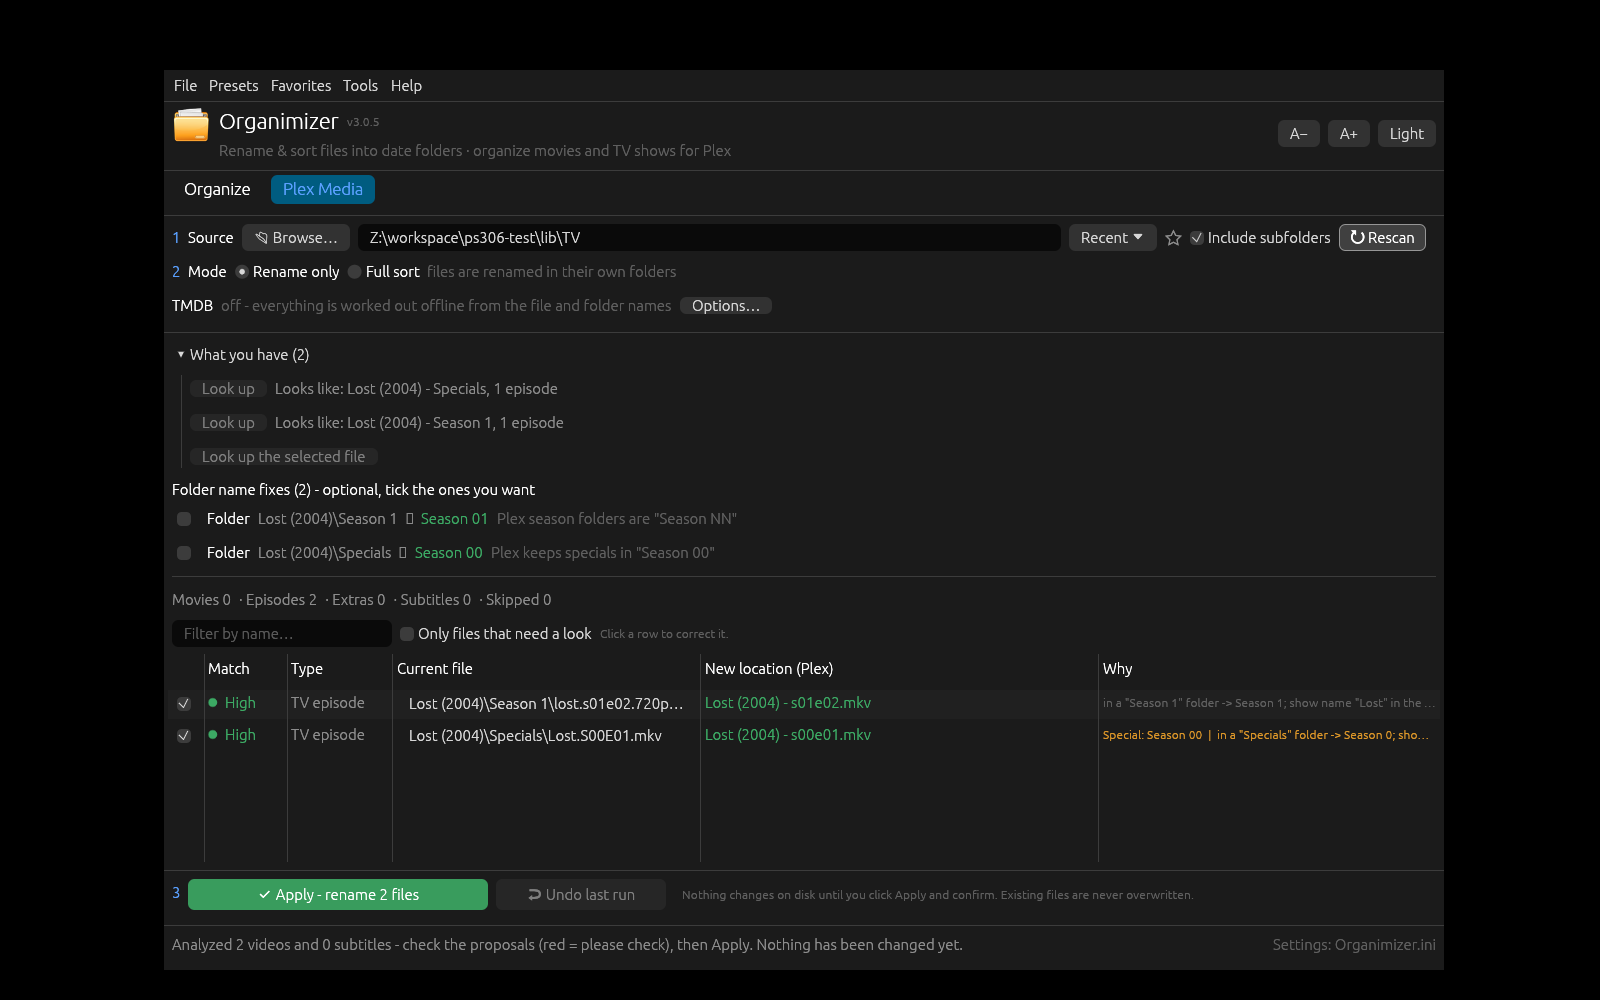
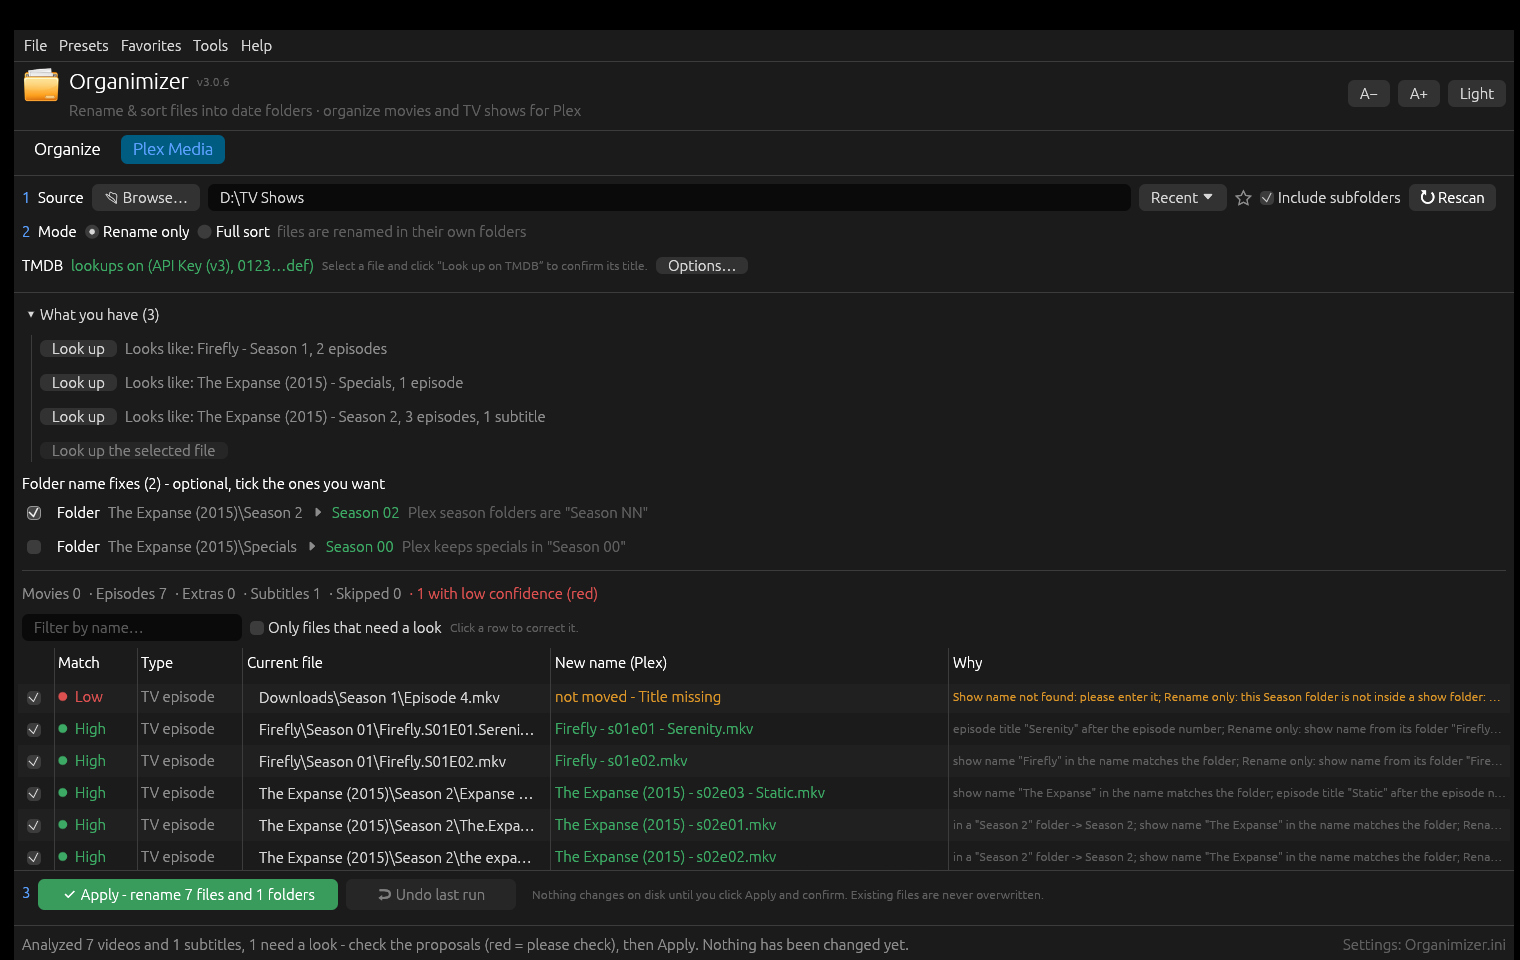
3.0.6: user guide with screenshots, release docs
docs/v3/USER-GUIDE.md walks through the Organize and Plex tabs (Rename
only with folder fixes, Full sort destinations, Recent folders, the
type-the-name prompt, Apply / Undo, F1 help) with fresh Wine screenshots
of sample folders; README.md links it and notes that 3.0 is on the
v3-organimizer branch, not released. HELP.md (plain text, opens in
Notepad) points to the online guide. README.txt carries the 3.0.6 exe
SHA-256; THIRD-PARTY-NOTICES regenerated; test summary updated.

diff --git a/docs/v3/USER-GUIDE.md b/docs/v3/USER-GUIDE.md
@@ -1,0 +1,124 @@
+# Organimizer 3.0.6 - user guide (with screenshots)
+
+> This guide is for the **3.0 branch** (`v3-organimizer`). 3.0 is still in
+> testing: it is not merged to `master` and has no GitHub release yet. The
+> latest release is PhotoSorter v2.0.5.
+
+The full text help ships with the app as `HELP.md` (Help > F1 opens it in
+Notepad, so it has no pictures). This page shows the same steps with
+screenshots. All screenshots were taken under Wine with sample folders
+(`D:\Photos`, `D:\TV Shows`, `D:\Movies`, `D:\Downloads`).
+
+Contents: [Organize tab](#organize-tab) |
+[Plex Media tab](#plex-media-tab) |
+[Rename only](#rename-only-the-default) |
+[Full sort](#full-sort) |
+[Look up and type the title](#look-up-and-type-the-title) |
+[Apply and Undo](#apply-and-undo) |
+[Help (F1)](#help-f1) |
+[Plex folder names](#plex-folder-names-in-short)
+
+---
+
+## Organize tab
+
+Renames photos and videos with your rules and sorts them into date
+folders such as `July 2024`. The Source box starts **empty** on every
+launch; **Recent** next to it lists the last 4 folders you used.
+
+![Recent folders on the Organize tab](screenshots/organize-recent-dropdown.png)
+
+Pick a folder and the live preview shows what would happen. Nothing
+changes until you click **Apply** and confirm.
+
+![Organize tab with a live preview](screenshots/organize-tab.png)
+
+## Plex Media tab
+
+1. **Source:** Browse, drop a folder, or pick one from **Recent**.
+2. **Mode:** **Rename only** (default) or **Full sort**.
+3. Click **Scan**, check the preview, then **Apply**.
+
+![Recent folders on the Plex tab](screenshots/plex-recent-dropdown.png)
+
+## Rename only (the default)
+
+Use this when your folders are already right, for example
+`The Expanse (2015)\Season 2\`. Each file is renamed **where it is**:
+nothing moves and no folder is created. The show name, year and season
+come from the folders the file is in.
+
+**Folder name fixes** (`Season 2` -> `Season 02`, `Specials` ->
+`Season 00`, adding the year) are separate rows above the file list and
+are **unticked** by default. Tick only the ones you want; the Apply button
+shows how many files and folders will change.
+
+![Rename only with folder name fixes](screenshots/plex-rename-only.png)
+
+Rows whose folders do not look right are not guessed. Here
+`Downloads\Season 1\Episode 4.mkv` is not inside a show folder, so it is
+red and "not moved" until you type the show name (click the row to open
+"Correct this file", or use Look up).
+
+![A doubtful row and the Correct this file panel](screenshots/plex-doubtful-row.png)
+
+A show folder without a year (`Firefly`) is **not** a problem: the Why
+column just notes that Plex folders are widely named
+`Show Title (yyyy)`, and when the year is known an unticked fix offers to
+add it.
+
+## Full sort
+
+Use this for a mixed folder of downloads or rips. Organimizer builds
+`Show (Year)\Season NN\` and `Movie (Year)\` (with extras folders such as
+`Trailers`) and moves the files into them.
+
+![Full sort preview](screenshots/plex-full-sort.png)
+
+**Destination:** *Inside source folder* builds the folders inside the
+chosen folder; *Library folders* moves movies to your Movies folder and
+episodes to your TV shows folder.
+
+![Full sort destination options](screenshots/plex-full-sort-library-folders.png)
+
+If you change the mode after a scan, click **Rescan**.
+
+## Look up and type the title
+
+With your own free TMDB key (Tools > Options > TMDB), **Look up** confirms
+titles. When Organimizer is not sure (Medium or Low), or TMDB finds
+nothing, it asks you to type the name and an optional 4-digit year first.
+
+![Type the name prompt](screenshots/plex-type-the-title.png)
+
+## Apply and Undo
+
+Apply asks first. Existing files and folders are never overwritten, and an
+undo log is written before anything changes.
+
+![Apply confirmation](screenshots/plex-apply-confirm.png)
+
+**Undo last run** puts every file (and, in Rename only, every renamed
+folder) back.
+
+![Undo confirmation](screenshots/plex-undo-confirm.png)
+
+## Help (F1)
+
+F1 opens `HELP.md` in Notepad. On the Plex tab, look for the "Plex tab"
+chapter in the Contents line.
+
+![HELP.md opened with F1](screenshots/help-f1-notepad.png)
+
+## Plex folder names in short
+
+- Movies: `Movie Title (yyyy)\Movie Title (yyyy).mkv`
+- TV: `Show Title (yyyy)\Season 01\Show Title (yyyy) - s01e02.mkv`
+  (specials in `Season 00`)
+- Show folders are widely named **`Show Title (yyyy)`**, movie folders
+  **`Movie Title (yyyy)`**.
+- Extras folders: `Behind The Scenes`, `Deleted Scenes`, `Featurettes`,
+  `Interviews`, `Scenes`, `Shorts`, `Trailers`, `Other`.
+
+The complete rules, with links to Plex's own support articles, are in the
+"Plex tab" chapter of [HELP.md](../../dist/v3.0.6/HELP.md).

diff --git a/docs/v3/TEST-SUMMARY.md b/docs/v3/TEST-SUMMARY.md
@@ -114,5 +114,12 @@ Own Xvfb `:96` and prefix `ps306-test/prefix`. Shared displays and prefixes were
 |---|---|
 | Plex tab starts with an empty Source box; **Recent ⏷** lists the folder from the INI; picking it fills the box | OK |
 | Mode shows **Rename only** selected by default; Scan of `TV` (`Lost (2004)\Season 1`, `Specials`) proposes `Lost (2004) - s01e02.mkv` / `- s00e01.mkv` in their own folders; two folder fixes (`Season 01`, `Season 00`) shown unticked | OK (screenshot `plex-rename-only.png`) |
-| Ticking one fix changes Apply to "rename 2 files and 1 folders"; switching to Full sort shows Destination *Inside source folder* / *Library folders* and "Mode changed: click Rescan" (Apply disabled) | OK (screenshot `plex-full-sort-destination.png`) |
-| Apply / Undo with folder renames on disk | unit tests only (`apply_with_folder_fixes_then_undo_restores_everything`); not run in the GUI |
+| Ticking one fix changes Apply to "rename 2 files and 1 folders"; switching to Full sort shows Destination *Inside source folder* / *Library folders* and "Mode changed: click Rescan" (Apply disabled) | OK (screenshot `plex-full-sort-library-folders.png`) |
+| Apply / Undo with folder renames on disk (Rename only, `D:\TV Shows`, both folder fixes ticked): 7 files renamed, `Season 2` -> `Season 02`, `Specials` -> `Season 00`; Undo restored every name and folder | OK (unit test `apply_with_folder_fixes_then_undo_restores_everything` too) |
+| Full sort Apply / Undo on `D:\Downloads` (7 files into Plex folders), Undo restores and removes the created folders | OK (screenshots `plex-apply-confirm.png`, `plex-undo-confirm.png`) |
+| Type-the-name prompt from Look up on a Low row (mock TMDB, made-up key) | OK (screenshot `plex-type-the-title.png`) |
+| Organize tab starts empty; Recent lists the INI folders; picking one shows the live preview | OK (screenshots `organize-recent-dropdown.png`, `organize-tab.png`) |
+| F1 opens HELP.md in Notepad | OK (screenshot `help-f1-notepad.png`) |
+
+Screenshots for the user guide (`docs/v3/USER-GUIDE.md`) use sample folders on a Wine `D:` drive only.
+| Release build (`scripts/build-release.sh`): `Organimizer-v3.0.6-setup.exe`, `Organimizer-v3.0.6-win64.zip`, `Organimizer-v3.0.6-SHA256SUMS.txt`; silent install (`/S`) in a fresh Wine prefix puts Organimizer.exe (same SHA-256 as the build), docs and the Start Menu shortcut `PrimeCrew Software\Organimizer.lnk` in place; the installed app starts as v3.0.6 with an empty Source box and settings in `%APPDATA%\PrimeCrew Software\Organimizer` | OK |

diff --git a/README.md b/README.md
@@ -11,11 +11,18 @@ with two tabs:
   and then, optionally, moves them into date folders such as `March 2024`
   inside each file's own folder (the PhotoSorter pipeline).
 - **Plex Media** – analyzes movies, TV episodes, extras and subtitles and
-  moves them into the folder layout Plex expects, in place or into your
-  library folders.
+  names them the way Plex expects. **Rename only** (default) renames files
+  inside the folders they are already in; **Full sort** builds the Plex
+  folders, inside the chosen folder or in your library folders.
 
 Everything is shown in a preview first, nothing is ever overwritten or
 deleted, and the last run can be undone.
+
+> **Branch note:** Organimizer 3.0 lives on the `v3-organimizer` branch and
+> is still being tested; it is not merged to `master` and has no GitHub
+> release yet (the latest release is PhotoSorter v2.0.5).
+>
+> **User guide with screenshots:** [docs/v3/USER-GUIDE.md](docs/v3/USER-GUIDE.md)
 
 ## Features
 
@@ -75,6 +82,7 @@ End-user docs: `dist/v3.0.6/README.txt` and `dist/v3.0.6/HELP.md` (shipped
 as `README.txt` and `HELP.md`, together with `LICENSE`, `COPYRIGHT` and
 `dist/v3.0.6/THIRD-PARTY-NOTICES.txt`); older versions under `dist/v2.*`,
 v1 docs: `dist/README.txt`. Version history: [CHANGELOG.md](CHANGELOG.md).
+User guide with screenshots: [docs/v3/USER-GUIDE.md](docs/v3/USER-GUIDE.md).
 Test notes: `docs/v2/TEST-SUMMARY.md`, `docs/v3/TEST-SUMMARY.md`;
 screenshots: `docs/v3/screenshots/`.
 

diff --git a/dist/v3.0.6/HELP.md b/dist/v3.0.6/HELP.md
@@ -6,6 +6,9 @@ It renames files with ordered rules and sorts them into date folders such as
 into the folder layout Plex expects (the **Plex Media** tab).
 
 The full reference is `README.txt` next to `Organimizer.exe`.
+A user guide with screenshots of every step is online:
+https://github.com/primecrew/organimizer/blob/v3-organimizer/docs/v3/USER-GUIDE.md
+(this file is plain text because it opens in Notepad).
 
 Contents: Quick start (Organize) | Quick start (Plex Media) | Plex tab |
 Movies | Movie extras | TV shows | Common mistakes | Cheat sheet |
